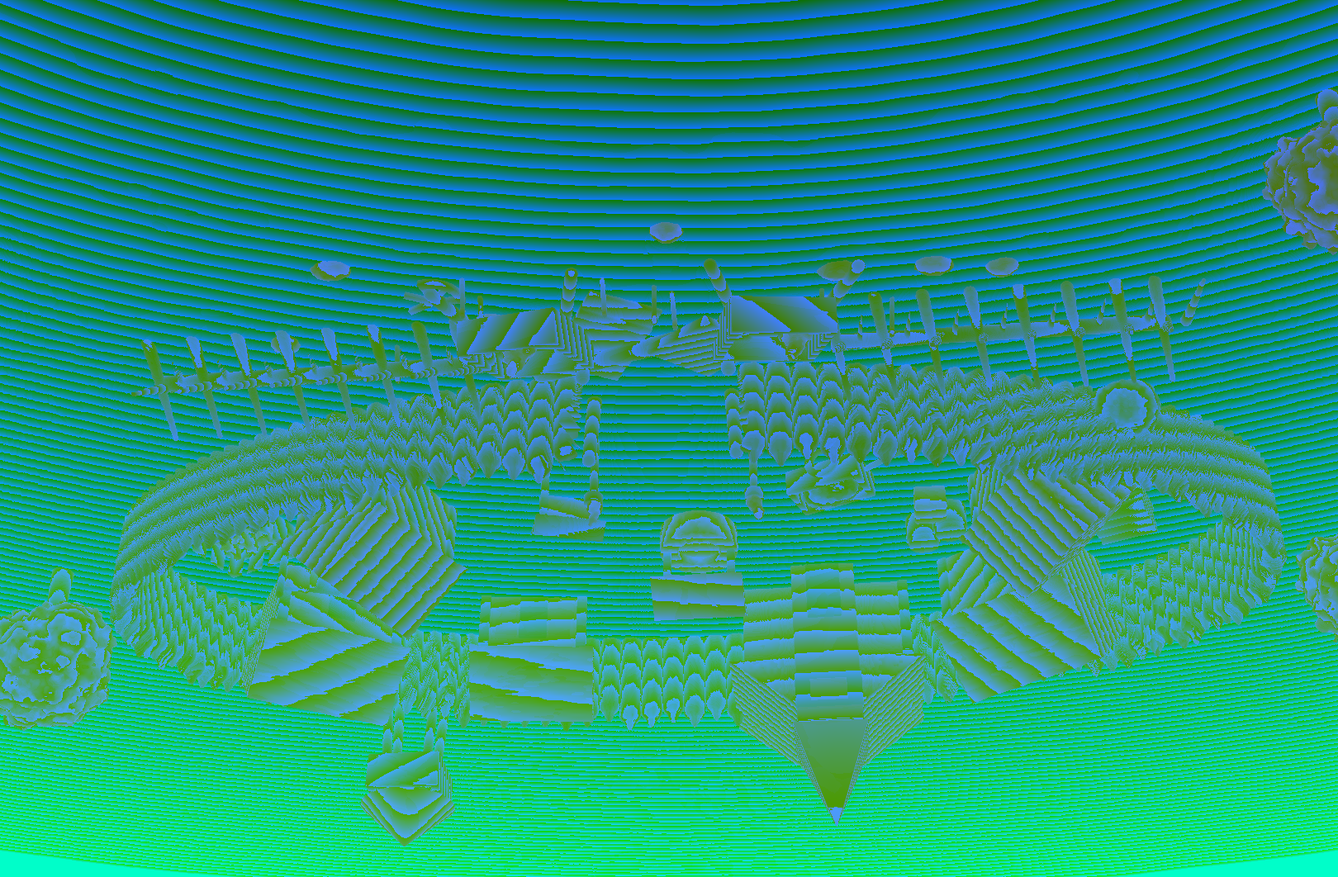
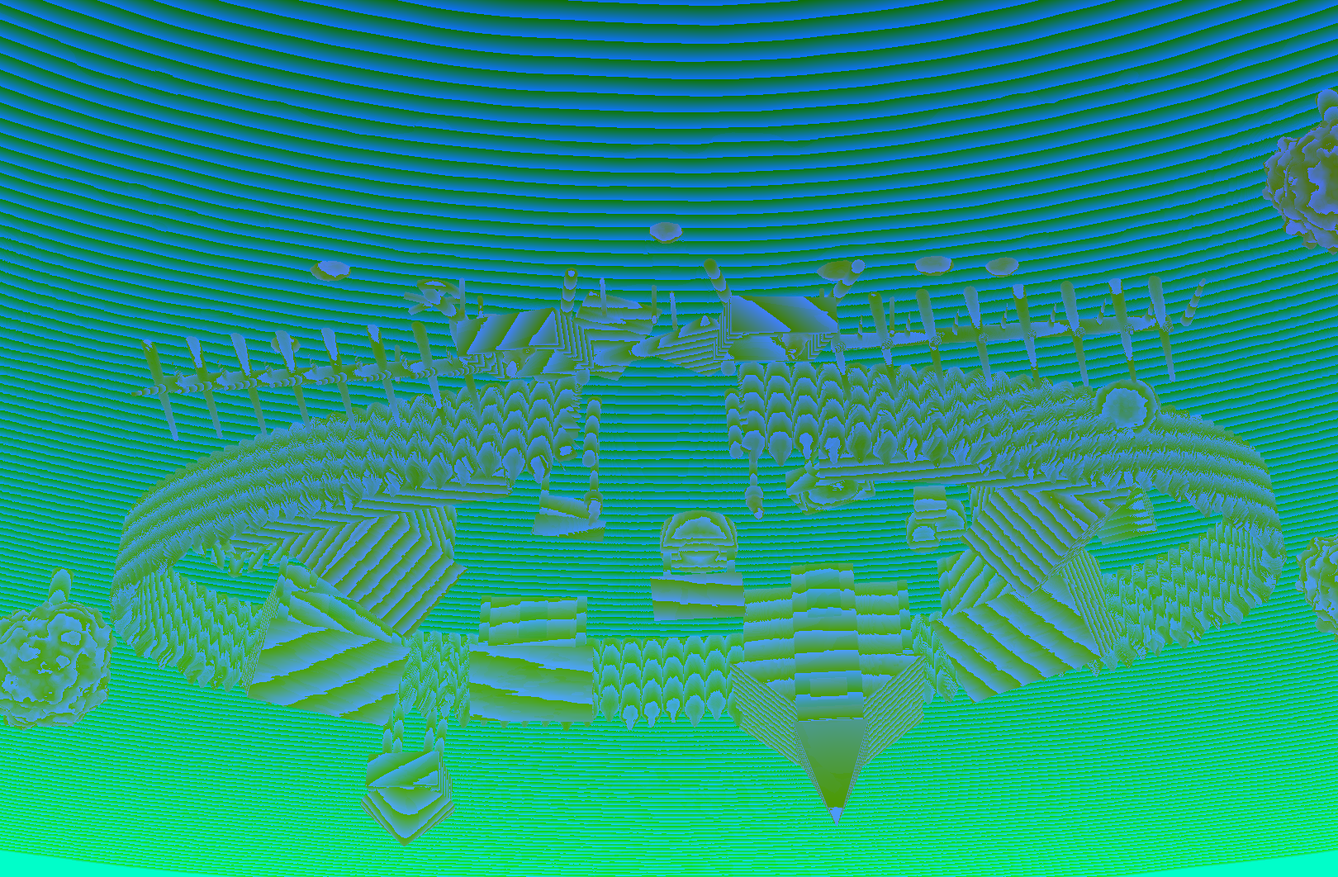
侵略：村人26人の隊列（盾の列・控え・櫓・柵の上の弓・魔法使い・僧侶）、名前は将軍だけ
Claude-Session: https://claude.ai/code/session_01MpJPWy321815AwYbXUCf2V

Changed region(s): [[0.1543, 0.5282, 0.4012, 0.6215], [0.6173, 0.4972, 0.8642, 0.5904]]

diff --git a/index.html b/index.html
@@ -7257,7 +7257,7 @@ document.addEventListener("click", ev => {
 { const _oc2 = openChest19; openChest19 = function (S, c) { if (c.kind !== "lvall") return _oc2(S, c); if (!S.mons.length) return _oc2(S, c);
   return { text: "👑 覚醒", sub: "Lv+3 する子を1体えらんでね", sp: null, feed: 1, awaken: true, evos: [] }; }; }
 
-const VER20 = "No.260（11/21 10:48）";
+const VER20 = "No.261（11/21 11:27）";
 // ================= proto20：ダンジョンを見る画面と、配置する画面を分ける =================
 // ・ダンジョン画面：洞窟を大きく。部屋をタップ → 部屋ボード（全画面）
 // ・🧭育成：育てる→稼ぐ／守るの流れで見る。卒業Lv・毎朝おまかせ
@@ -11046,6 +11046,11 @@ const VDEBRIS25 = () => ` {float ar=1e3;for(int i=0;i<9;i++){float fi=float(i);v
    float fe=sBox(q-d*0.95,vec3(0.02,0.1,0.07));if(fe<r.x)r=vec2(fe,42.0);}if(ar<r.x)r=vec2(ar,12.0);
   float rk=1e3;for(int i=0;i<7;i++){float fi=float(i);vec2 c=vec2(-10.0+fi*3.4+1.5*sin(fi*5.1),5.0+3.5*fract(sin(fi*3.7)*51.3));rk=min(rk,sEll(p-vec3(c.x,0.05,c.y),vec3(0.35+0.2*fract(fi*0.71),0.22,0.3)));}rk+=(vnoise(p*7.0)-0.5)*0.08;if(rk<r.x)r=vec2(rk*0.85,43.0);
   vec3 w=p-vec3(-5.6,0.12,6.4);w=vec3(w.x,w.z,-w.y);float wh=max(abs(length(w.xy)-0.75)-0.07,abs(w.z)-0.07);wh=max(wh,-(dot(normalize(w.xy),vec2(0.6,0.8))-0.6));float sk=1e3;for(int k=0;k<5;k++){float a=float(k)*0.9;vec2 dd=vec2(cos(a),sin(a));sk=min(sk,max(abs(dot(w.xy,vec2(-dd.y,dd.x)))-0.04,max(abs(w.z)-0.05,max(dot(w.xy,dd)-0.75,-dot(w.xy,dd)))));}wh=min(wh,sk);if(wh<r.x)r=vec2(wh,12.0);}`;
+const VWALK25 = () => ` {float ax=abs(p.x);if(ax>4.3&&ax<12.8){float zc=-5.0+7.6*sqrt(max(0.0,1.0-(p.x/17.5)*(p.x/17.5)))-0.75;vec3 q=vec3(p.x,p.y,p.z-zc);
+  float wk=sBox(vec3(0.0,q.y-2.75,q.z),vec3(1.0,0.09,0.55));wk=max(wk,max(4.3-ax,ax-12.8));float k=floor(p.x/1.7+0.5)*1.7;
+  float po=min(sBox(vec3(p.x-k,q.y-1.37,q.z+0.45),vec3(0.1,1.37,0.1)),sBox(vec3(p.x-k,q.y-1.37,q.z-0.45),vec3(0.1,1.37,0.1)));po=max(po,max(4.2-ax,ax-12.9));wk=min(wk,po);
+  float lad=max(sBox(vec3(ax-4.7,q.y-1.15,q.z+1.0),vec3(0.35,1.2,0.06)),-sBox(vec3(ax-4.7,mod(q.y,0.45)-0.22,q.z+1.0),vec3(0.27,0.17,0.2)));wk=min(wk,lad);
+  wk+=abs(fract(p.x*2.4)-0.5)*0.02;if(wk<r.x)r=vec2(wk,12.0);}}`;
 const VK25 = 1.3, VLT25 = (x, y, z) => [x * VK25, y * VK25, (z - 2.6) * VK25 + 2.0].map(v => v.toFixed(2)).join(",");
 const VILLAGE25 = (bk) => " {vec3 pW=p;p=(p-vec3(0.0,0.0,2.0))/" + VK25.toFixed(2) + "+vec3(0.0,0.0,2.6);r.x/=" + VK25.toFixed(2) + ";\n" + [
   VHOUSE25(-9.2, -2.6, 1.7, 1.5, 2.3, 1.15, 0, 46), VHOUSE25(-12.2, -8.6, 1.9, 1.5, 2.4, 0.55, 0, 46), VHOUSE25(-5.6, -10.6, 1.6, 1.4, 2.2, 0.12, 0, 46),
@@ -11055,7 +11060,7 @@ const VILLAGE25 = (bk) => " {vec3 pW=p;p=(p-vec3(0.0,0.0,2.0))/" + VK25.toFixed(
   VPOST25(-2.2, -0.4), VPOST25(2.4, -0.6), VTOWER25(-10.0, -12.6),
   VTREE25(-19.6, 6.0, 1.3), VTREE25(19.4, 7.0, 1.3), VTREE25(-20.5, -6.0, 1.4), VTREE25(20.6, -5.2, 1.4), VTREE25(-17.0, 11.0, 1.1), VTREE25(16.5, 11.5, 1.1),
   VCHEV25(-13.5, -5.0, 4.4), VCHEV25(5.0, 13.5, 4.4), VDEBRIS25(),
-  VRING25(bk)].join("\n") + "\n p=pW;r.x*=" + VK25.toFixed(2) + ";}";
+  VWALK25(), VRING25(bk)].join("\n") + "\n p=pW;r.x*=" + VK25.toFixed(2) + ";}";
 const HAI25 = (() => {
   const L = r => ROOMS24[r].props.split("\n");
   const T = L("train"), M = L("mine"), S = L("sleep");
@@ -11291,7 +11296,7 @@ function roomKind25(i){ if (window.__INVADE25) return typeof window.__INVADE25 =
   return F.includes("train") ? "train" : F.includes("mine") ? "mine" : F.includes("bed") ? "bed" : R.fac === "mine" ? "mine" : R.fac === "bed" ? "bed" : R.fac === "train" ? "train" : F.includes("nest") || R.fac === "nest" ? "nest" : F.includes("watch") || R.fac === "watch" ? "watch" : F.includes("gate") || R.fac === "gate" ? "entry" : "plain"; }
 // 配った洞窟の絵（bg25/部屋の種類_c.png・_d.png）があれば、それを読み込む
 function setRoom25(i){ const C = B3.C; C.setRoom(B3.roomKey); const k = roomKind25(i); if (!BGSHIP25[k]) return; C.putBgImages(`bg25/${k}_c.webp?v=${BGSHIP25[k]}`, `bg25/${k}_d.webp?v=${BGSHIP25[k]}`, C.st.bgKey); }
-const BGSHIP25 = { v_grass: "bb0e7e25", v_grass_b: "1ac1ae3b", train: "177c07dc", mine: "93e6d2c5", bed: "a3af377b", lord: "8300d46a", plain: "6683282a", nest: "e3d92db3", watch: "22cc5774", entry: "52e41f17", train_mine: "e6d09ae2", train_bed: "06723853", train_nest: "d516a146", train_watch: "e1ad46e7", mine_bed: "373f048c", mine_nest: "ff6e8e1f", mine_watch: "72754dcf", bed_nest: "6754c89d", bed_watch: "50cdec00", nest_watch: "61532936", lordday: "8300d46a" };
+const BGSHIP25 = { v_grass: "bde48e94", v_grass_b: "26495de2", train: "177c07dc", mine: "93e6d2c5", bed: "a3af377b", lord: "8300d46a", plain: "6683282a", nest: "e3d92db3", watch: "22cc5774", entry: "52e41f17", train_mine: "e6d09ae2", train_bed: "06723853", train_nest: "d516a146", train_watch: "e1ad46e7", mine_bed: "373f048c", mine_nest: "ff6e8e1f", mine_watch: "72754dcf", bed_nest: "6754c89d", bed_watch: "50cdec00", nest_watch: "61532936", lordday: "8300d46a" };
 function roomKey25(i){ const on = {}; ROOMSET25[roomKind25(i)].forEach(k => on[k] = true); return HAI25.room(on); }
 // ---- 3Dのキャラの種類 ----
 const heroSp25 = h => (typeof heroId === "function" ? String(heroId(h)).replace(/\d+$/, "") : h.job) || "warrior";
@@ -11524,11 +11529,16 @@ const INV25 = (() => {
   function start(list){
     const lv = 3, mul = (typeof heroMul5 === "function" ? heroMul5(lv) : 1), tier = typeof heroTier === "function" ? heroTier(lv, false) : 0;
     const names = (typeof HERO_NAMES5 !== "undefined" ? HERO_NAMES5 : ["アレン", "ベル", "カイ", "ドナ", "エド", "フィン"]).slice().sort(() => R() - 0.5);
-    const vil = [];
-    const mk = (job, base, x, z, up) => { const J = (typeof JOB5 !== "undefined" && JOB5[base]) || { hp: 60, atk: 9 }, hp = Math.round(J.hp * mul);
-      vil.push({ id: "h" + vil.length, name: names[vil.length % names.length], job, key: job + ":" + tier, hp, max: hp, atk: Math.round(J.atk * mul), x, z, hx: x, hz: z, up, cd: R() * 1.2, dead: false }); };
-    mk("mage", "mage", TOWER[0][0], TOWER[0][1], UP); mk("hunter", "thief", TOWER[1][0], TOWER[1][1], UP);
-    mk("warrior", "warrior", -2.2, 4.2, 0); mk("warrior", "warrior", 2.2, 4.3, 0); mk("thief", "thief", 0, 3.8, 0);
+    const vil = [], VK = 1.3, W = x => { const zc = -5 + 7.6 * Math.sqrt(Math.max(0, 1 - (x / 17.5) ** 2)) - 0.75; return [x * VK, (zc - 2.6) * VK + 2.0]; };
+    const mk = (job, base, x, z, up, role) => { const J = (typeof JOB5 !== "undefined" && JOB5[base]) || { hp: 60, atk: 9 }, hp = Math.round(J.hp * mul);
+      vil.push({ id: "h" + vil.length, job, key: job + ":" + tier, hp, max: hp, atk: Math.round(J.atk * mul), x, z, hx: x, hz: z, up, role, cd: R() * 1.2, dead: false }); };
+    // 村の人口100人ほど → 戦える者が26人。櫓に魔法使いと狩人、柵の上の通路に弓、門の前に盾の列とその後ろに控え、うしろに魔法使いと僧侶
+    mk("mage", "mage", TOWER[0][0], TOWER[0][1], UP, "tower"); mk("hunter", "thief", TOWER[1][0], TOWER[1][1], UP, "tower");
+    [-10.6, -8.4, -6.2, 6.2, 8.4, 10.6].forEach(x => { const [wx, wz] = W(x); mk("hunter", "thief", wx, wz, 3.65, "wall"); });
+    for (let k = 0; k < 7; k++) mk("warrior", "warrior", -4.5 + k * 1.5, 4.7, 0, "front");
+    for (let k = 0; k < 5; k++) mk("thief", "thief", -3 + k * 1.5, 3.6, 0, "second");
+    mk("mage", "mage", -1.6, 2.9, 0, "caster"); mk("mage", "mage", 1.6, 2.9, 0, "caster");
+    mk("priest", "priest", -5.6, 3.2, 0, "healer"); mk("priest", "priest", 5.6, 3.2, 0, "healer");
     const mons = list.map((m, k) => { const hp = typeof monHp5 === "function" ? monHp5(m) : 50, n = list.length, row = Math.floor(k / 6), col = k % 6;
       const x = (col - (Math.min(6, n - row * 6) - 1) / 2) * 2.6, z = 9.5 + row * 2.2 + R() * 0.6;
       return { id: "m" + m.id, ref: m, sp: m.sp, key: m.sp + ":" + (m.evos || 0), hp, max: hp, atk: typeof monAtk5 === "function" ? monAtk5(m) : 10, x, z, fly: !!INVFLY25[m.sp], shot: shotOf({ sp: m.sp, ref: m }), cd: 0.5 + R(), dead: false }; });
@@ -11552,25 +11562,35 @@ const INV25 = (() => {
       const reach = m.shot ? 5.5 : 1.6 + (B3 && B3.size[m.key] || 1) * 0.5;
       let tx, tz;
       if (toGate) { tx = m.gx != null ? m.gx : (m.gx = (R() - 0.5) * 3.2); tz = GATE.z + 1.4 + (B3 && B3.size[m.key] || 1) * 0.4; }
-      else if (tgt) { const dx = m.x - tgt.x, dz = m.z - tgt.z, L = Math.hypot(dx, dz) || 1, want = tgt.up ? (m.fly && !m.shot ? 1.4 : 4.5) : reach * 0.85; tx = tgt.x + dx / L * want; tz = Math.max(tgt.up ? GATE.z + 1.2 : -20, tgt.z + dz / L * want); }
+      else if (tgt) { const dx = m.x - tgt.x, dz = m.z - tgt.z, L = Math.hypot(dx, dz) || 1, want = tgt.up ? (m.fly && !m.shot ? 1.4 : 4.5) : reach * 0.85; tx = tgt.x + dx / L * want; tz = Math.max(tgt.up ? tgt.z + 1.8 : -20, tgt.z + dz / L * want); }
       else return;
       const ddx = tx - m.x, ddz = tz - m.z, dd = Math.hypot(ddx, ddz), sp = 3.0 * dt;
       if (dd > 0.2) { m.x += ddx / dd * Math.min(dd, sp); m.z += ddz / dd * Math.min(dd, sp); }
-      const inR = toGate ? dd < 0.5 : tgt && Math.hypot(m.x - tgt.x, m.z - tgt.z) < (tgt.up ? (m.fly && !m.shot ? 2.2 : 6) : reach + 0.3);
+      const inR = toGate ? dd < 0.5 : tgt && Math.hypot(m.x - tgt.x, m.z - tgt.z) < (tgt.up ? (m.fly && !m.shot ? 2.9 : 6.5) : reach + 0.3);
       if (inR && m.cd <= 0) { m.cd = 1.3 + R() * 0.4;
         if (toGate) { const d = Math.max(1, Math.round(m.atk * (0.85 + R() * 0.3) * (m.fly ? 0.5 : 1))); st.gate.hp -= d; st.pops.push({ txt: d + "", at: st.t, x: GATE.x + (R() - 0.5) * 2, col: "#ffd27a" }); const A = B3 && B3.A[m.id]; if (A && typeof play25 === "function") { play25(A, "atk", 0.42); A.lunge = [GATE.x - m.x, GATE.z - m.z]; } if (B3) B3.shake = Math.max(B3.shake || 0, 0.06);
           if (st.gate.hp <= 0 && !st.gate.broken) breakGate(); }
         else hit(m, tgt, m.atk, !!m.shot && !(tgt.up && m.fly), m.shot); } });
-    // 村人
-    V.forEach(v => { v.cd -= dt; const t = near(v, M); if (!t) return;
-      if (v.up) { if (v.cd <= 0 && Math.hypot(t.x - v.x, t.z - v.z) < 16) { v.cd = 1.5 + R() * 0.4; hit(v, t, v.atk, true, null); } return; }
-      const dTo = Math.hypot(t.x - v.x, t.z - v.z), leash = st.gate.broken ? 30 : 4.5;
-      let tx = v.hx, tz = v.hz; if (Math.hypot(t.x - v.hx, t.z - v.hz) < leash + 3) { const L = dTo || 1; tx = t.x + (v.x - t.x) / L * 1.5; tz = t.z + (v.z - t.z) / L * 1.5; }
+    // 村人：隊列を守りながら戦う
+    const fronts = V.filter(v => v.role === "front");
+    // 前の列に穴があいたら、控えが埋める
+    st.vil.filter(v => v.role === "front" && v.dead && !v.filled).forEach(d => { const c = V.filter(v => v.role === "second").sort((p, q) => Math.hypot(p.x - d.hx, p.z - d.hz) - Math.hypot(q.x - d.hx, q.z - d.hz))[0]; if (c) { c.role = "front"; c.hx = d.hx; c.hz = d.hz; d.filled = true; } });
+    V.forEach(v => { v.cd -= dt; const t = near(v, M); if (!t) return; const dTo = Math.hypot(t.x - v.x, t.z - v.z);
+      if (v.up) { if (v.cd <= 0 && dTo < 17) { v.cd = (v.role === "wall" ? 1.8 : 1.5) + R() * 0.5; hit(v, t, v.atk, true, null); } return; }
+      if (v.role === "healer") { if (v.cd <= 0) { const w = V.filter(o => o.hp < o.max && Math.hypot(o.x - v.x, o.z - v.z) < 9).sort((p, q) => p.hp / p.max - q.hp / q.max)[0]; v.cd = 2.6 + R() * 0.6;
+          if (w) { const h = Math.min(w.max - w.hp, Math.round(v.atk * 2.2)); w.hp += h; if (B3) B3.pops.push({ who: w.id, txt: "+" + h, at: B3.now, col: "#7cf09a" }); const A = B3 && B3.A[v.id]; if (A && typeof play25 === "function") play25(A, "atk", 0.42); } } return; }
+      if (v.role === "caster") { if (v.cd <= 0 && dTo < 10) { v.cd = 2.0 + R() * 0.5; hit(v, t, v.atk * 1.2, true, "magic"); } return; }
+      const free = st.gate.broken, leash = free ? 40 : v.role === "front" ? 1.6 : 2.4;
+      let tx = v.hx, tz = v.hz; if (free || Math.hypot(t.x - v.hx, t.z - v.hz) < leash + 1.6) { const L = dTo || 1; tx = t.x + (v.x - t.x) / L * 1.4; tz = t.z + (v.z - t.z) / L * 1.4; if (!free) { const ox = tx - v.hx, oz = tz - v.hz, oL = Math.hypot(ox, oz); if (oL > leash) { tx = v.hx + ox / oL * leash; tz = v.hz + oz / oL * leash; } } }
       const ddx = tx - v.x, ddz = tz - v.z, dd = Math.hypot(ddx, ddz), sp = 3.4 * dt; if (dd > 0.2) { v.x += ddx / dd * Math.min(dd, sp); v.z += ddz / dd * Math.min(dd, sp); }
       if (dTo < 2.0 && v.cd <= 0) { v.cd = 1.2 + R() * 0.4; hit(v, t, v.atk, false, null); } });
+    // 重なりをほどく（地上どうし）
+    const G = st.mons.filter(m => !m.dead).concat(st.vil.filter(v => !v.dead && !v.up)), rad = u => 0.55 * ((B3 && B3.size[u.key]) || 1);
+    for (let i = 0; i < G.length; i++) for (let j = i + 1; j < G.length; j++) { const a = G[i], b = G[j], dx = b.x - a.x, dz = b.z - a.z, d = Math.hypot(dx, dz) || 0.01, need = rad(a) + rad(b);
+      if (d < need) { const push = (need - d) * 0.5 * Math.min(1, dt * 8), ux = dx / d, uz = dz / d, fa = a.role === "front" ? 0.2 : 1, fb = b.role === "front" ? 0.2 : 1; a.x -= ux * push * fa; a.z -= uz * push * fa; b.x += ux * push * fb; b.z += uz * push * fb; } }
     if (!st.vil.some(v => !v.dead)) end(true); else if (!st.mons.some(m => !m.dead)) end(false); }
   function breakGate(){ st.gate.broken = true; st.gate.hp = 0; st.brokeAt = st.t;
-    st.vil.forEach(v => { if (!v.up || v.dead) return; v.up = 0; v.x += Math.sign(v.x) * 0.6; v.z += 1.6; v.hx = v.x; v.hz = v.z; const d = Math.round(v.max * 0.3); v.hp -= d; st.hits.push({ a: null, b: v.id, d, kill: v.hp <= 0, big: true }); if (v.hp <= 0) v.dead = true; });
+    st.vil.forEach(v => { if (!v.up || v.dead || v.role !== "tower") return; v.up = 0; v.x += Math.sign(v.x) * 0.6; v.z += 1.6; v.hx = v.x; v.hz = v.z; const d = Math.round(v.max * 0.3); v.hp -= d; st.hits.push({ a: null, b: v.id, d, kill: v.hp <= 0, big: true }); if (v.hp <= 0) v.dead = true; });
     st.pops.push({ txt: "門を破った！", at: st.t, x: 0, col: "#ffe9a0", big: 1 });
     window.__INVADE25 = "v_grass_b"; if (B3 && B3.C) { B3.roomKey = roomKey25(0); setRoom25(0); } }
   function end(win){ st.over = win ? "win" : "lose"; setTimeout(() => showEnd(win), 1400); }
@@ -11579,7 +11599,7 @@ const INV25 = (() => {
     N.hit25.push(...st.hits.filter(h => h.b)); st.hits = []; return want0(); }
   function want0(){ const W = {};
     st.mons.forEach(m => { if (m.dead && !(B3 && B3.A[m.id])) return; W[m.id] = { x: m.x, z: m.z, key: m.key, hp: Math.max(0, m.hp) / m.max, down: m.dead, name: m.ref.nick, fixed: 1 }; });
-    st.vil.forEach(v => { if (v.dead && !(B3 && B3.A[v.id])) return; W[v.id] = { x: v.x, z: v.z, key: v.key, hp: Math.max(0, v.hp) / v.max, down: v.dead, name: v.name, fixed: 1, up: v.up || 0 }; });
+    st.vil.forEach(v => { if (v.dead && !(B3 && B3.A[v.id])) return; W[v.id] = { x: v.x, z: v.z, key: v.key, hp: Math.max(0, v.hp) / v.max, down: v.dead, name: v.general ? v.name : null, fixed: 1, up: v.up || 0 }; });
     return W; }
   // 門の体力と「門を破った！」
   function overlay(g, now, r){ if (!st || !B3) return; const s = B3.C.toScreen([GATE.x, GATE.top, GATE.z]), w = 90, k = Math.max(0, st.gate.hp) / st.gate.max;
@@ -11596,7 +11616,7 @@ let invBox25 = null;
 function invClose25(){ try { B3 && B3.C && B3.C.destroy(); } catch (e) {} B3 = null; if (invBox25) invBox25.remove(); invBox25 = null; window.__INVADE25 = 0; N = window.__invN0 || null; }
 function invOpenForm25(){ if (typeof S === "undefined" || !S || !S.mons) return;
   const el = document.createElement("div"); el.className = "inv25form";
-  const ms = S.mons.slice().sort((a, b) => (b.lv || 1) - (a.lv || 1)); const pick = new Set(ms.slice(0, 6).map(m => m.id));
+  const ms = S.mons.slice().sort((a, b) => (b.lv || 1) - (a.lv || 1)); const pick = new Set(ms.map(m => m.id));
   const draw = () => { el.innerHTML = `<div class="inv25card"><h3>⚔ 侵略（試作）：草原の村</h3><div class="inv25hint">連れていく魔物をえらぶ（何体でも）。門を壊して村人を倒せば勝ち。</div>
     <div class="inv25list">${ms.map(m => `<label class="${pick.has(m.id) ? "on" : ""}"><input type="checkbox" data-id="${m.id}" ${pick.has(m.id) ? "checked" : ""}>${typeof img === "function" ? simg23(m, m.evos || 0, "sp") : ""}<span>${m.nick || m.sp}<small> Lv${m.lv || 1}${INVFLY25[m.sp] ? "・飛" : ""}${Object.keys(m.sk || {}).some(k => INVRSK25[k]) ? "・遠" : ""}</small></span></label>`).join("")}</div>
     <div class="inv25btns"><button class="inv25go" ${pick.size ? "" : "disabled"}>出撃（${pick.size}体）</button><button class="inv25no">やめる</button></div></div>`;

diff --git a/v360.html b/v360.html
@@ -7257,7 +7257,7 @@ document.addEventListener("click", ev => {
 { const _oc2 = openChest19; openChest19 = function (S, c) { if (c.kind !== "lvall") return _oc2(S, c); if (!S.mons.length) return _oc2(S, c);
   return { text: "👑 覚醒", sub: "Lv+3 する子を1体えらんでね", sp: null, feed: 1, awaken: true, evos: [] }; }; }
 
-const VER20 = "No.260（11/21 10:48）";
+const VER20 = "No.261（11/21 11:27）";
 // ================= proto20：ダンジョンを見る画面と、配置する画面を分ける =================
 // ・ダンジョン画面：洞窟を大きく。部屋をタップ → 部屋ボード（全画面）
 // ・🧭育成：育てる→稼ぐ／守るの流れで見る。卒業Lv・毎朝おまかせ
@@ -11046,6 +11046,11 @@ const VDEBRIS25 = () => ` {float ar=1e3;for(int i=0;i<9;i++){float fi=float(i);v
    float fe=sBox(q-d*0.95,vec3(0.02,0.1,0.07));if(fe<r.x)r=vec2(fe,42.0);}if(ar<r.x)r=vec2(ar,12.0);
   float rk=1e3;for(int i=0;i<7;i++){float fi=float(i);vec2 c=vec2(-10.0+fi*3.4+1.5*sin(fi*5.1),5.0+3.5*fract(sin(fi*3.7)*51.3));rk=min(rk,sEll(p-vec3(c.x,0.05,c.y),vec3(0.35+0.2*fract(fi*0.71),0.22,0.3)));}rk+=(vnoise(p*7.0)-0.5)*0.08;if(rk<r.x)r=vec2(rk*0.85,43.0);
   vec3 w=p-vec3(-5.6,0.12,6.4);w=vec3(w.x,w.z,-w.y);float wh=max(abs(length(w.xy)-0.75)-0.07,abs(w.z)-0.07);wh=max(wh,-(dot(normalize(w.xy),vec2(0.6,0.8))-0.6));float sk=1e3;for(int k=0;k<5;k++){float a=float(k)*0.9;vec2 dd=vec2(cos(a),sin(a));sk=min(sk,max(abs(dot(w.xy,vec2(-dd.y,dd.x)))-0.04,max(abs(w.z)-0.05,max(dot(w.xy,dd)-0.75,-dot(w.xy,dd)))));}wh=min(wh,sk);if(wh<r.x)r=vec2(wh,12.0);}`;
+const VWALK25 = () => ` {float ax=abs(p.x);if(ax>4.3&&ax<12.8){float zc=-5.0+7.6*sqrt(max(0.0,1.0-(p.x/17.5)*(p.x/17.5)))-0.75;vec3 q=vec3(p.x,p.y,p.z-zc);
+  float wk=sBox(vec3(0.0,q.y-2.75,q.z),vec3(1.0,0.09,0.55));wk=max(wk,max(4.3-ax,ax-12.8));float k=floor(p.x/1.7+0.5)*1.7;
+  float po=min(sBox(vec3(p.x-k,q.y-1.37,q.z+0.45),vec3(0.1,1.37,0.1)),sBox(vec3(p.x-k,q.y-1.37,q.z-0.45),vec3(0.1,1.37,0.1)));po=max(po,max(4.2-ax,ax-12.9));wk=min(wk,po);
+  float lad=max(sBox(vec3(ax-4.7,q.y-1.15,q.z+1.0),vec3(0.35,1.2,0.06)),-sBox(vec3(ax-4.7,mod(q.y,0.45)-0.22,q.z+1.0),vec3(0.27,0.17,0.2)));wk=min(wk,lad);
+  wk+=abs(fract(p.x*2.4)-0.5)*0.02;if(wk<r.x)r=vec2(wk,12.0);}}`;
 const VK25 = 1.3, VLT25 = (x, y, z) => [x * VK25, y * VK25, (z - 2.6) * VK25 + 2.0].map(v => v.toFixed(2)).join(",");
 const VILLAGE25 = (bk) => " {vec3 pW=p;p=(p-vec3(0.0,0.0,2.0))/" + VK25.toFixed(2) + "+vec3(0.0,0.0,2.6);r.x/=" + VK25.toFixed(2) + ";\n" + [
   VHOUSE25(-9.2, -2.6, 1.7, 1.5, 2.3, 1.15, 0, 46), VHOUSE25(-12.2, -8.6, 1.9, 1.5, 2.4, 0.55, 0, 46), VHOUSE25(-5.6, -10.6, 1.6, 1.4, 2.2, 0.12, 0, 46),
@@ -11055,7 +11060,7 @@ const VILLAGE25 = (bk) => " {vec3 pW=p;p=(p-vec3(0.0,0.0,2.0))/" + VK25.toFixed(
   VPOST25(-2.2, -0.4), VPOST25(2.4, -0.6), VTOWER25(-10.0, -12.6),
   VTREE25(-19.6, 6.0, 1.3), VTREE25(19.4, 7.0, 1.3), VTREE25(-20.5, -6.0, 1.4), VTREE25(20.6, -5.2, 1.4), VTREE25(-17.0, 11.0, 1.1), VTREE25(16.5, 11.5, 1.1),
   VCHEV25(-13.5, -5.0, 4.4), VCHEV25(5.0, 13.5, 4.4), VDEBRIS25(),
-  VRING25(bk)].join("\n") + "\n p=pW;r.x*=" + VK25.toFixed(2) + ";}";
+  VWALK25(), VRING25(bk)].join("\n") + "\n p=pW;r.x*=" + VK25.toFixed(2) + ";}";
 const HAI25 = (() => {
   const L = r => ROOMS24[r].props.split("\n");
   const T = L("train"), M = L("mine"), S = L("sleep");
@@ -11291,7 +11296,7 @@ function roomKind25(i){ if (window.__INVADE25) return typeof window.__INVADE25 =
   return F.includes("train") ? "train" : F.includes("mine") ? "mine" : F.includes("bed") ? "bed" : R.fac === "mine" ? "mine" : R.fac === "bed" ? "bed" : R.fac === "train" ? "train" : F.includes("nest") || R.fac === "nest" ? "nest" : F.includes("watch") || R.fac === "watch" ? "watch" : F.includes("gate") || R.fac === "gate" ? "entry" : "plain"; }
 // 配った洞窟の絵（bg25/部屋の種類_c.png・_d.png）があれば、それを読み込む
 function setRoom25(i){ const C = B3.C; C.setRoom(B3.roomKey); const k = roomKind25(i); if (!BGSHIP25[k]) return; C.putBgImages(`bg25/${k}_c.webp?v=${BGSHIP25[k]}`, `bg25/${k}_d.webp?v=${BGSHIP25[k]}`, C.st.bgKey); }
-const BGSHIP25 = { v_grass: "bb0e7e25", v_grass_b: "1ac1ae3b", train: "177c07dc", mine: "93e6d2c5", bed: "a3af377b", lord: "8300d46a", plain: "6683282a", nest: "e3d92db3", watch: "22cc5774", entry: "52e41f17", train_mine: "e6d09ae2", train_bed: "06723853", train_nest: "d516a146", train_watch: "e1ad46e7", mine_bed: "373f048c", mine_nest: "ff6e8e1f", mine_watch: "72754dcf", bed_nest: "6754c89d", bed_watch: "50cdec00", nest_watch: "61532936", lordday: "8300d46a" };
+const BGSHIP25 = { v_grass: "bde48e94", v_grass_b: "26495de2", train: "177c07dc", mine: "93e6d2c5", bed: "a3af377b", lord: "8300d46a", plain: "6683282a", nest: "e3d92db3", watch: "22cc5774", entry: "52e41f17", train_mine: "e6d09ae2", train_bed: "06723853", train_nest: "d516a146", train_watch: "e1ad46e7", mine_bed: "373f048c", mine_nest: "ff6e8e1f", mine_watch: "72754dcf", bed_nest: "6754c89d", bed_watch: "50cdec00", nest_watch: "61532936", lordday: "8300d46a" };
 function roomKey25(i){ const on = {}; ROOMSET25[roomKind25(i)].forEach(k => on[k] = true); return HAI25.room(on); }
 // ---- 3Dのキャラの種類 ----
 const heroSp25 = h => (typeof heroId === "function" ? String(heroId(h)).replace(/\d+$/, "") : h.job) || "warrior";
@@ -11524,11 +11529,16 @@ const INV25 = (() => {
   function start(list){
     const lv = 3, mul = (typeof heroMul5 === "function" ? heroMul5(lv) : 1), tier = typeof heroTier === "function" ? heroTier(lv, false) : 0;
     const names = (typeof HERO_NAMES5 !== "undefined" ? HERO_NAMES5 : ["アレン", "ベル", "カイ", "ドナ", "エド", "フィン"]).slice().sort(() => R() - 0.5);
-    const vil = [];
-    const mk = (job, base, x, z, up) => { const J = (typeof JOB5 !== "undefined" && JOB5[base]) || { hp: 60, atk: 9 }, hp = Math.round(J.hp * mul);
-      vil.push({ id: "h" + vil.length, name: names[vil.length % names.length], job, key: job + ":" + tier, hp, max: hp, atk: Math.round(J.atk * mul), x, z, hx: x, hz: z, up, cd: R() * 1.2, dead: false }); };
-    mk("mage", "mage", TOWER[0][0], TOWER[0][1], UP); mk("hunter", "thief", TOWER[1][0], TOWER[1][1], UP);
-    mk("warrior", "warrior", -2.2, 4.2, 0); mk("warrior", "warrior", 2.2, 4.3, 0); mk("thief", "thief", 0, 3.8, 0);
+    const vil = [], VK = 1.3, W = x => { const zc = -5 + 7.6 * Math.sqrt(Math.max(0, 1 - (x / 17.5) ** 2)) - 0.75; return [x * VK, (zc - 2.6) * VK + 2.0]; };
+    const mk = (job, base, x, z, up, role) => { const J = (typeof JOB5 !== "undefined" && JOB5[base]) || { hp: 60, atk: 9 }, hp = Math.round(J.hp * mul);
+      vil.push({ id: "h" + vil.length, job, key: job + ":" + tier, hp, max: hp, atk: Math.round(J.atk * mul), x, z, hx: x, hz: z, up, role, cd: R() * 1.2, dead: false }); };
+    // 村の人口100人ほど → 戦える者が26人。櫓に魔法使いと狩人、柵の上の通路に弓、門の前に盾の列とその後ろに控え、うしろに魔法使いと僧侶
+    mk("mage", "mage", TOWER[0][0], TOWER[0][1], UP, "tower"); mk("hunter", "thief", TOWER[1][0], TOWER[1][1], UP, "tower");
+    [-10.6, -8.4, -6.2, 6.2, 8.4, 10.6].forEach(x => { const [wx, wz] = W(x); mk("hunter", "thief", wx, wz, 3.65, "wall"); });
+    for (let k = 0; k < 7; k++) mk("warrior", "warrior", -4.5 + k * 1.5, 4.7, 0, "front");
+    for (let k = 0; k < 5; k++) mk("thief", "thief", -3 + k * 1.5, 3.6, 0, "second");
+    mk("mage", "mage", -1.6, 2.9, 0, "caster"); mk("mage", "mage", 1.6, 2.9, 0, "caster");
+    mk("priest", "priest", -5.6, 3.2, 0, "healer"); mk("priest", "priest", 5.6, 3.2, 0, "healer");
     const mons = list.map((m, k) => { const hp = typeof monHp5 === "function" ? monHp5(m) : 50, n = list.length, row = Math.floor(k / 6), col = k % 6;
       const x = (col - (Math.min(6, n - row * 6) - 1) / 2) * 2.6, z = 9.5 + row * 2.2 + R() * 0.6;
       return { id: "m" + m.id, ref: m, sp: m.sp, key: m.sp + ":" + (m.evos || 0), hp, max: hp, atk: typeof monAtk5 === "function" ? monAtk5(m) : 10, x, z, fly: !!INVFLY25[m.sp], shot: shotOf({ sp: m.sp, ref: m }), cd: 0.5 + R(), dead: false }; });
@@ -11552,25 +11562,35 @@ const INV25 = (() => {
       const reach = m.shot ? 5.5 : 1.6 + (B3 && B3.size[m.key] || 1) * 0.5;
       let tx, tz;
       if (toGate) { tx = m.gx != null ? m.gx : (m.gx = (R() - 0.5) * 3.2); tz = GATE.z + 1.4 + (B3 && B3.size[m.key] || 1) * 0.4; }
-      else if (tgt) { const dx = m.x - tgt.x, dz = m.z - tgt.z, L = Math.hypot(dx, dz) || 1, want = tgt.up ? (m.fly && !m.shot ? 1.4 : 4.5) : reach * 0.85; tx = tgt.x + dx / L * want; tz = Math.max(tgt.up ? GATE.z + 1.2 : -20, tgt.z + dz / L * want); }
+      else if (tgt) { const dx = m.x - tgt.x, dz = m.z - tgt.z, L = Math.hypot(dx, dz) || 1, want = tgt.up ? (m.fly && !m.shot ? 1.4 : 4.5) : reach * 0.85; tx = tgt.x + dx / L * want; tz = Math.max(tgt.up ? tgt.z + 1.8 : -20, tgt.z + dz / L * want); }
       else return;
       const ddx = tx - m.x, ddz = tz - m.z, dd = Math.hypot(ddx, ddz), sp = 3.0 * dt;
       if (dd > 0.2) { m.x += ddx / dd * Math.min(dd, sp); m.z += ddz / dd * Math.min(dd, sp); }
-      const inR = toGate ? dd < 0.5 : tgt && Math.hypot(m.x - tgt.x, m.z - tgt.z) < (tgt.up ? (m.fly && !m.shot ? 2.2 : 6) : reach + 0.3);
+      const inR = toGate ? dd < 0.5 : tgt && Math.hypot(m.x - tgt.x, m.z - tgt.z) < (tgt.up ? (m.fly && !m.shot ? 2.9 : 6.5) : reach + 0.3);
       if (inR && m.cd <= 0) { m.cd = 1.3 + R() * 0.4;
         if (toGate) { const d = Math.max(1, Math.round(m.atk * (0.85 + R() * 0.3) * (m.fly ? 0.5 : 1))); st.gate.hp -= d; st.pops.push({ txt: d + "", at: st.t, x: GATE.x + (R() - 0.5) * 2, col: "#ffd27a" }); const A = B3 && B3.A[m.id]; if (A && typeof play25 === "function") { play25(A, "atk", 0.42); A.lunge = [GATE.x - m.x, GATE.z - m.z]; } if (B3) B3.shake = Math.max(B3.shake || 0, 0.06);
           if (st.gate.hp <= 0 && !st.gate.broken) breakGate(); }
         else hit(m, tgt, m.atk, !!m.shot && !(tgt.up && m.fly), m.shot); } });
-    // 村人
-    V.forEach(v => { v.cd -= dt; const t = near(v, M); if (!t) return;
-      if (v.up) { if (v.cd <= 0 && Math.hypot(t.x - v.x, t.z - v.z) < 16) { v.cd = 1.5 + R() * 0.4; hit(v, t, v.atk, true, null); } return; }
-      const dTo = Math.hypot(t.x - v.x, t.z - v.z), leash = st.gate.broken ? 30 : 4.5;
-      let tx = v.hx, tz = v.hz; if (Math.hypot(t.x - v.hx, t.z - v.hz) < leash + 3) { const L = dTo || 1; tx = t.x + (v.x - t.x) / L * 1.5; tz = t.z + (v.z - t.z) / L * 1.5; }
+    // 村人：隊列を守りながら戦う
+    const fronts = V.filter(v => v.role === "front");
+    // 前の列に穴があいたら、控えが埋める
+    st.vil.filter(v => v.role === "front" && v.dead && !v.filled).forEach(d => { const c = V.filter(v => v.role === "second").sort((p, q) => Math.hypot(p.x - d.hx, p.z - d.hz) - Math.hypot(q.x - d.hx, q.z - d.hz))[0]; if (c) { c.role = "front"; c.hx = d.hx; c.hz = d.hz; d.filled = true; } });
+    V.forEach(v => { v.cd -= dt; const t = near(v, M); if (!t) return; const dTo = Math.hypot(t.x - v.x, t.z - v.z);
+      if (v.up) { if (v.cd <= 0 && dTo < 17) { v.cd = (v.role === "wall" ? 1.8 : 1.5) + R() * 0.5; hit(v, t, v.atk, true, null); } return; }
+      if (v.role === "healer") { if (v.cd <= 0) { const w = V.filter(o => o.hp < o.max && Math.hypot(o.x - v.x, o.z - v.z) < 9).sort((p, q) => p.hp / p.max - q.hp / q.max)[0]; v.cd = 2.6 + R() * 0.6;
+          if (w) { const h = Math.min(w.max - w.hp, Math.round(v.atk * 2.2)); w.hp += h; if (B3) B3.pops.push({ who: w.id, txt: "+" + h, at: B3.now, col: "#7cf09a" }); const A = B3 && B3.A[v.id]; if (A && typeof play25 === "function") play25(A, "atk", 0.42); } } return; }
+      if (v.role === "caster") { if (v.cd <= 0 && dTo < 10) { v.cd = 2.0 + R() * 0.5; hit(v, t, v.atk * 1.2, true, "magic"); } return; }
+      const free = st.gate.broken, leash = free ? 40 : v.role === "front" ? 1.6 : 2.4;
+      let tx = v.hx, tz = v.hz; if (free || Math.hypot(t.x - v.hx, t.z - v.hz) < leash + 1.6) { const L = dTo || 1; tx = t.x + (v.x - t.x) / L * 1.4; tz = t.z + (v.z - t.z) / L * 1.4; if (!free) { const ox = tx - v.hx, oz = tz - v.hz, oL = Math.hypot(ox, oz); if (oL > leash) { tx = v.hx + ox / oL * leash; tz = v.hz + oz / oL * leash; } } }
       const ddx = tx - v.x, ddz = tz - v.z, dd = Math.hypot(ddx, ddz), sp = 3.4 * dt; if (dd > 0.2) { v.x += ddx / dd * Math.min(dd, sp); v.z += ddz / dd * Math.min(dd, sp); }
       if (dTo < 2.0 && v.cd <= 0) { v.cd = 1.2 + R() * 0.4; hit(v, t, v.atk, false, null); } });
+    // 重なりをほどく（地上どうし）
+    const G = st.mons.filter(m => !m.dead).concat(st.vil.filter(v => !v.dead && !v.up)), rad = u => 0.55 * ((B3 && B3.size[u.key]) || 1);
+    for (let i = 0; i < G.length; i++) for (let j = i + 1; j < G.length; j++) { const a = G[i], b = G[j], dx = b.x - a.x, dz = b.z - a.z, d = Math.hypot(dx, dz) || 0.01, need = rad(a) + rad(b);
+      if (d < need) { const push = (need - d) * 0.5 * Math.min(1, dt * 8), ux = dx / d, uz = dz / d, fa = a.role === "front" ? 0.2 : 1, fb = b.role === "front" ? 0.2 : 1; a.x -= ux * push * fa; a.z -= uz * push * fa; b.x += ux * push * fb; b.z += uz * push * fb; } }
     if (!st.vil.some(v => !v.dead)) end(true); else if (!st.mons.some(m => !m.dead)) end(false); }
   function breakGate(){ st.gate.broken = true; st.gate.hp = 0; st.brokeAt = st.t;
-    st.vil.forEach(v => { if (!v.up || v.dead) return; v.up = 0; v.x += Math.sign(v.x) * 0.6; v.z += 1.6; v.hx = v.x; v.hz = v.z; const d = Math.round(v.max * 0.3); v.hp -= d; st.hits.push({ a: null, b: v.id, d, kill: v.hp <= 0, big: true }); if (v.hp <= 0) v.dead = true; });
+    st.vil.forEach(v => { if (!v.up || v.dead || v.role !== "tower") return; v.up = 0; v.x += Math.sign(v.x) * 0.6; v.z += 1.6; v.hx = v.x; v.hz = v.z; const d = Math.round(v.max * 0.3); v.hp -= d; st.hits.push({ a: null, b: v.id, d, kill: v.hp <= 0, big: true }); if (v.hp <= 0) v.dead = true; });
     st.pops.push({ txt: "門を破った！", at: st.t, x: 0, col: "#ffe9a0", big: 1 });
     window.__INVADE25 = "v_grass_b"; if (B3 && B3.C) { B3.roomKey = roomKey25(0); setRoom25(0); } }
   function end(win){ st.over = win ? "win" : "lose"; setTimeout(() => showEnd(win), 1400); }
@@ -11579,7 +11599,7 @@ const INV25 = (() => {
     N.hit25.push(...st.hits.filter(h => h.b)); st.hits = []; return want0(); }
   function want0(){ const W = {};
     st.mons.forEach(m => { if (m.dead && !(B3 && B3.A[m.id])) return; W[m.id] = { x: m.x, z: m.z, key: m.key, hp: Math.max(0, m.hp) / m.max, down: m.dead, name: m.ref.nick, fixed: 1 }; });
-    st.vil.forEach(v => { if (v.dead && !(B3 && B3.A[v.id])) return; W[v.id] = { x: v.x, z: v.z, key: v.key, hp: Math.max(0, v.hp) / v.max, down: v.dead, name: v.name, fixed: 1, up: v.up || 0 }; });
+    st.vil.forEach(v => { if (v.dead && !(B3 && B3.A[v.id])) return; W[v.id] = { x: v.x, z: v.z, key: v.key, hp: Math.max(0, v.hp) / v.max, down: v.dead, name: v.general ? v.name : null, fixed: 1, up: v.up || 0 }; });
     return W; }
   // 門の体力と「門を破った！」
   function overlay(g, now, r){ if (!st || !B3) return; const s = B3.C.toScreen([GATE.x, GATE.top, GATE.z]), w = 90, k = Math.max(0, st.gate.hp) / st.gate.max;
@@ -11596,7 +11616,7 @@ let invBox25 = null;
 function invClose25(){ try { B3 && B3.C && B3.C.destroy(); } catch (e) {} B3 = null; if (invBox25) invBox25.remove(); invBox25 = null; window.__INVADE25 = 0; N = window.__invN0 || null; }
 function invOpenForm25(){ if (typeof S === "undefined" || !S || !S.mons) return;
   const el = document.createElement("div"); el.className = "inv25form";
-  const ms = S.mons.slice().sort((a, b) => (b.lv || 1) - (a.lv || 1)); const pick = new Set(ms.slice(0, 6).map(m => m.id));
+  const ms = S.mons.slice().sort((a, b) => (b.lv || 1) - (a.lv || 1)); const pick = new Set(ms.map(m => m.id));
   const draw = () => { el.innerHTML = `<div class="inv25card"><h3>⚔ 侵略（試作）：草原の村</h3><div class="inv25hint">連れていく魔物をえらぶ（何体でも）。門を壊して村人を倒せば勝ち。</div>
     <div class="inv25list">${ms.map(m => `<label class="${pick.has(m.id) ? "on" : ""}"><input type="checkbox" data-id="${m.id}" ${pick.has(m.id) ? "checked" : ""}>${typeof img === "function" ? simg23(m, m.evos || 0, "sp") : ""}<span>${m.nick || m.sp}<small> Lv${m.lv || 1}${INVFLY25[m.sp] ? "・飛" : ""}${Object.keys(m.sk || {}).some(k => INVRSK25[k]) ? "・遠" : ""}</small></span></label>`).join("")}</div>
     <div class="inv25btns"><button class="inv25go" ${pick.size ? "" : "disabled"}>出撃（${pick.size}体）</button><button class="inv25no">やめる</button></div></div>`;
